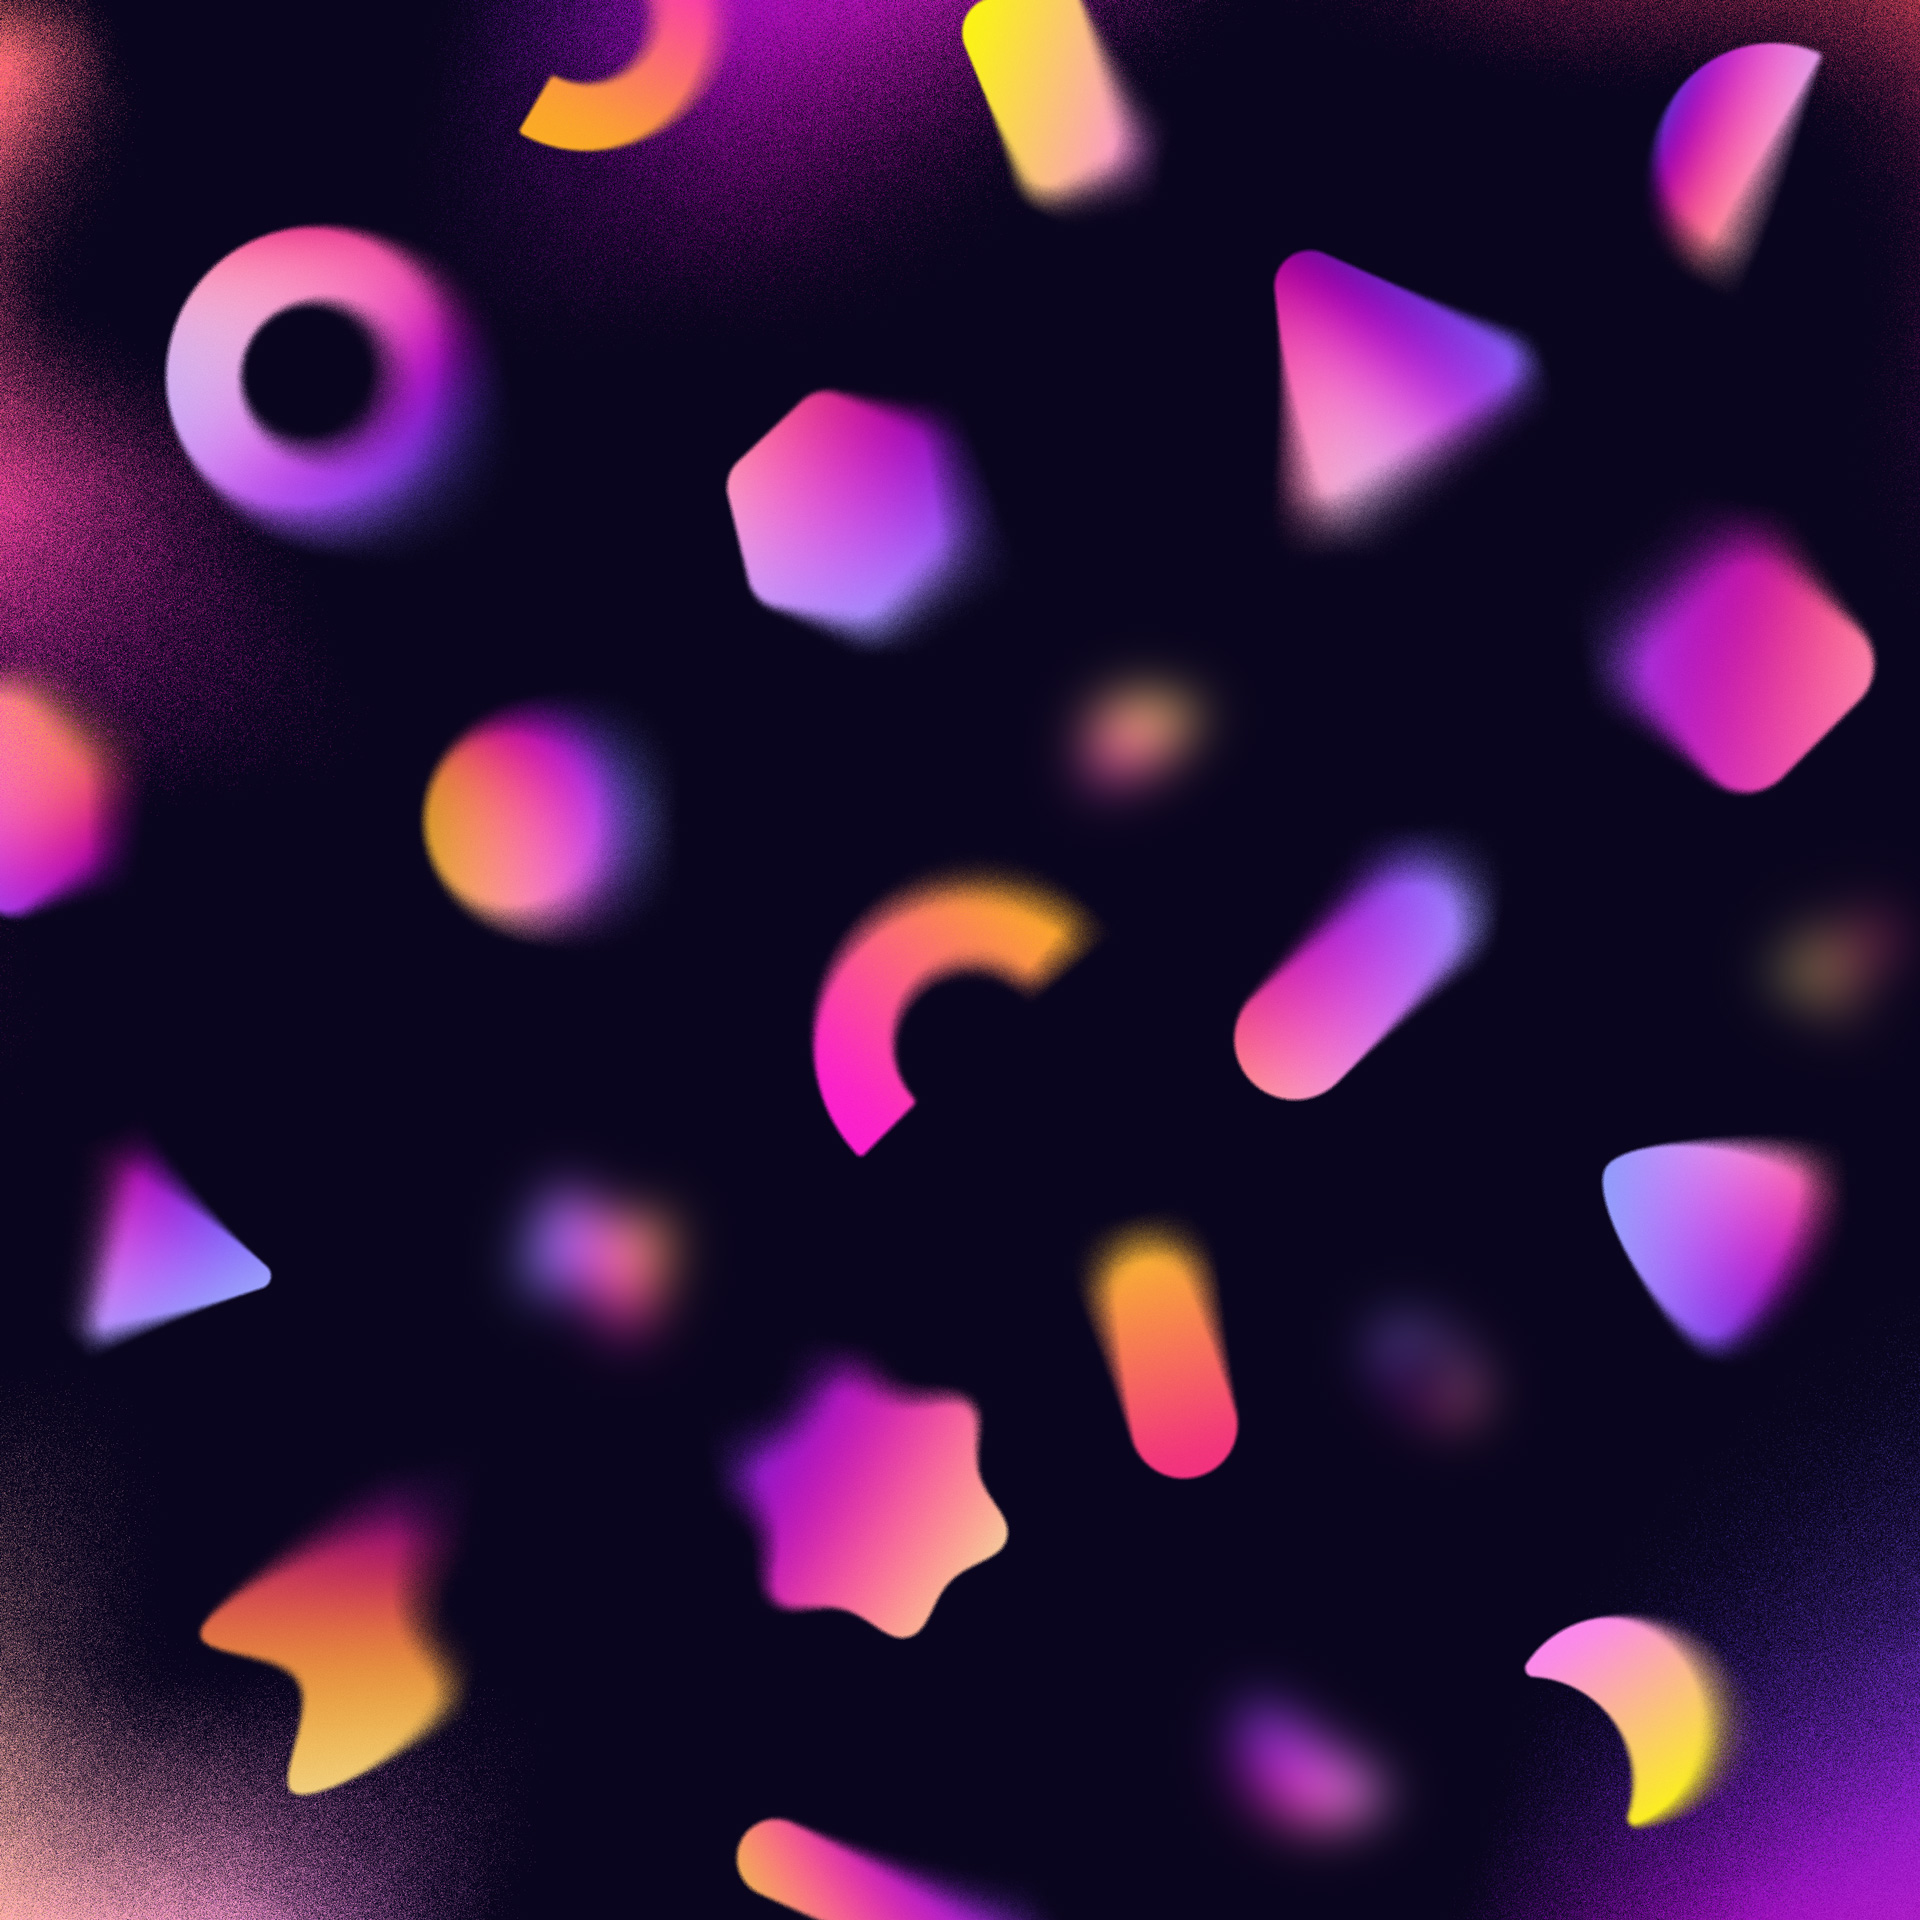
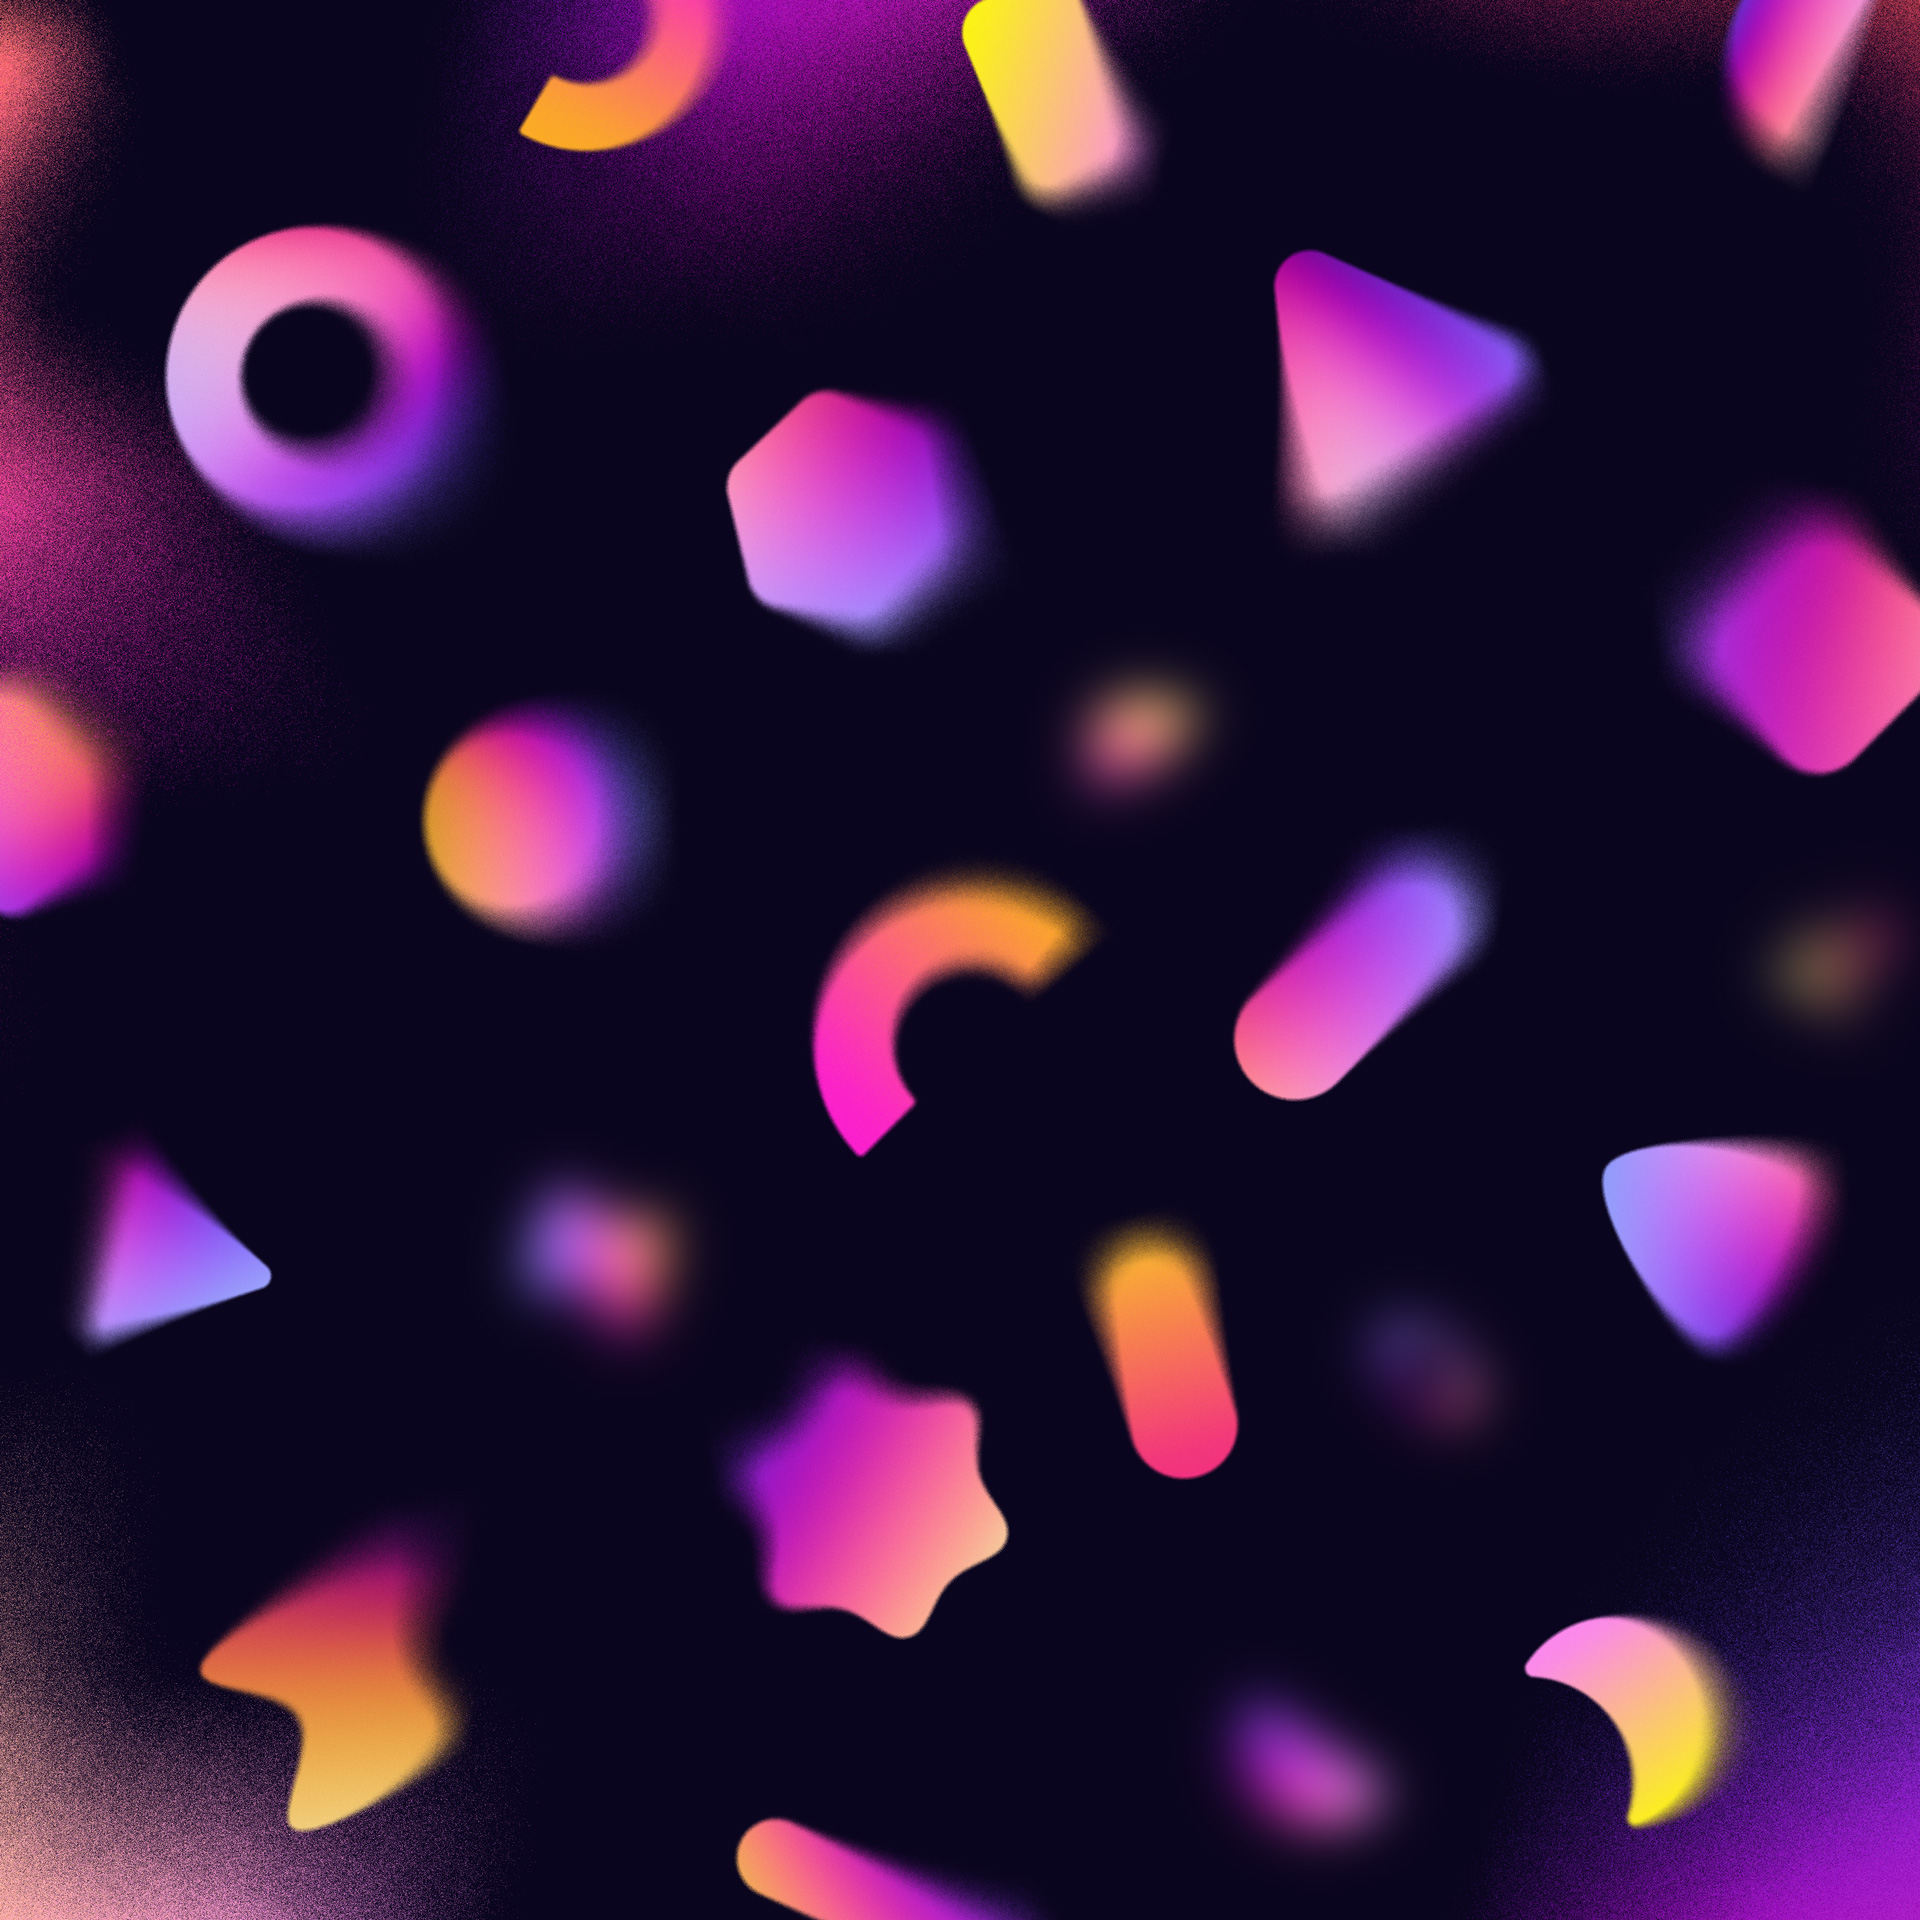
update background image

Changed region(s): [[0.8125, 0.25, 1.0, 0.4375], [0.0938, 0.75, 0.25, 0.9688], [0.8438, 0.0, 1.0, 0.1562]]

diff --git a/component/chat/container.tsx b/component/chat/container.tsx
@@ -25,7 +25,7 @@ const getStyleForTheme = (theme: Themes) => {
             <style jsx global>{`
                 body {
                     color: #1a1a1a;
-                    background-image: url("/assets/images/bg_06_1920.jpg?1637570884");
+                    background-image: url("/assets/images/bg_06_1920.jpg?4");
                     background-size: 100% auto;
                     background-repeat: repeat-y;
                     background-color: #0a051e;
@@ -38,7 +38,7 @@ const getStyleForTheme = (theme: Themes) => {
             <style jsx global>{`
                 body {
                     color: #fafafa;
-                    background-image: url("/assets/images/bg_06_1920.jpg?1637570884");
+                    background-image: url("/assets/images/bg_06_1920.jpg?4");
                     background-size: 100% auto;
                     background-repeat: repeat-y;
                     background-color: #0a051e;
